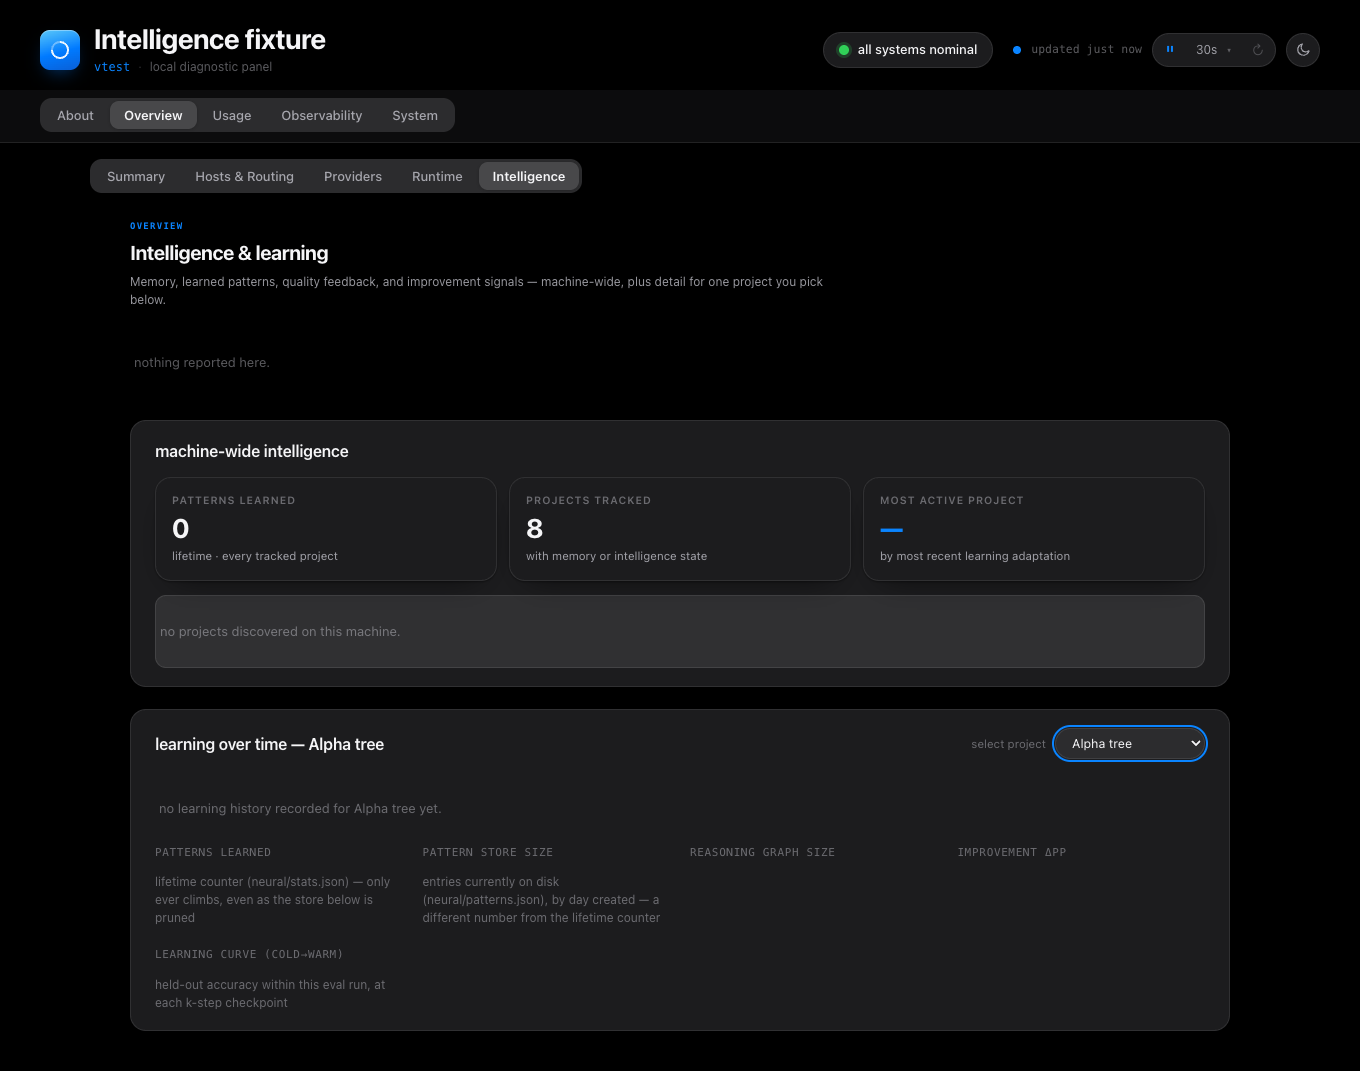
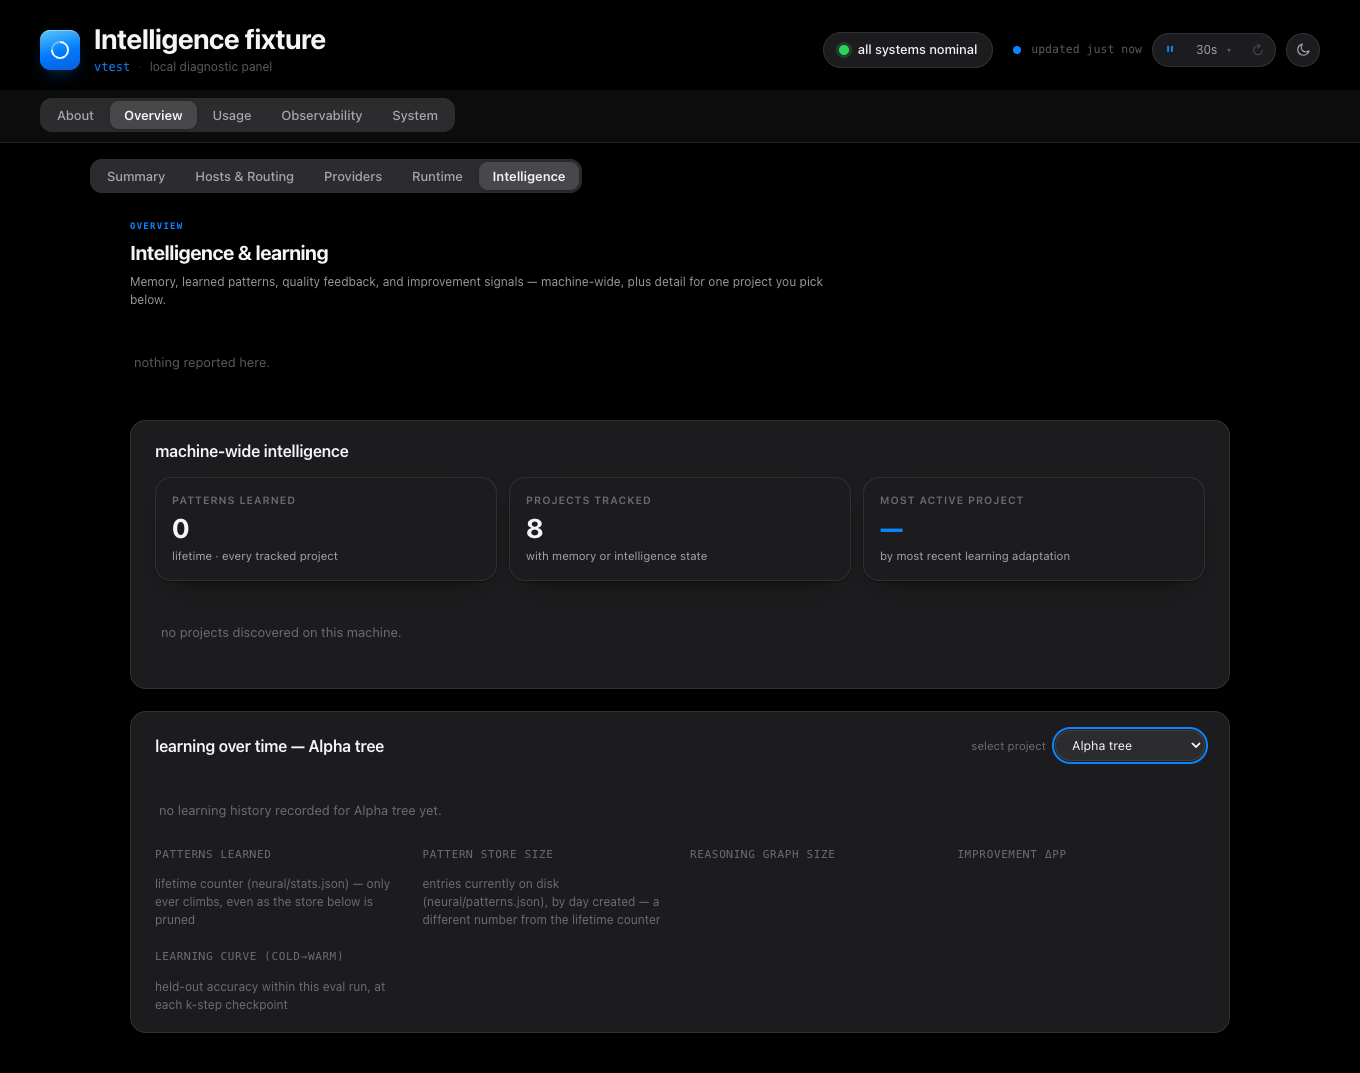
docs(dashboard): document grouped learning and context coverage

diff --git a/docs/evidence/dashboard-project-context/README.md b/docs/evidence/dashboard-project-context/README.md
@@ -12,12 +12,14 @@ code with fixture HTTP observations. They verify:
 - Existing totals, old payload fallback, empty states, and unknown attribution.
 - Maintenance folder/name alignment, shared Git badge, all language icons, and
   navigation through installations and back.
-- Alphabetized Intelligence optgroups, plain names, stable selection keys, and
-  empty-history navigation.
+- Alphabetized Intelligence optgroups and table subgroups, plain names, stable
+  selection keys, five-row scroll regions, and empty-history navigation.
 - Usage Score top-ten Git-project ranking, timeframe changes, plain names,
   excluded unclassified entries, and preserved overall totals.
 - Compact collapsed context configuration, bounded expanded model lists,
   cache/configuration semantics, and catalog fallback columns.
+- Historical context coverage distinguishes input-only, partial paired data,
+  missing measurements, and no sessions without presenting absent windows as zero.
 - Desktop, tablet, and phone overflow checks, keyboard controls, focus retention,
   native select semantics, accessible icon labels, and browser errors.
 
@@ -28,8 +30,10 @@ These are targeted accessibility checks, not a claim of a complete WCAG audit.
 | Surface | Desktop | Phone |
 | --- | --- | --- |
 | Context configuration | [Default](context-desktop.png), [model disclosure](context-models-desktop.png) | [390 px](context-390.png) |
+| Historical Context | [Desktop](coverage/context-coverage-1440.png) | [390 px](coverage/context-coverage-390.png) |
 | System Projects | [Desktop](system-projects-desktop.png) | [390 px](system-projects-390.png) |
 | Maintenance Projects | [Desktop](maintenance/project-cards-desktop.png) | [390 px](maintenance/project-cards-mobile.png) |
+| Intelligence table | [Desktop](intelligence/intelligence-table-1360.png) | [390 px](intelligence/intelligence-table-390.png), [scrolled](intelligence/intelligence-table-390-scrolled.png) |
 | Intelligence picker | [Desktop](intelligence/intelligence-picker-1360.png) | [390 px](intelligence/intelligence-picker-390.png) |
 | Usage project groups | [Desktop](usage/usage-project-groups-1440.png) | [390 px](usage/usage-project-groups-390.png) |
 
@@ -48,7 +52,7 @@ npm run build
 npm run test:ui
 ```
 
-The four focused browser suites are also included in `test:ui`. Ordinary runs
+The five focused browser suites are also included in `test:ui`. Ordinary runs
 write screenshots only to the ignored UI artifact directory, or to an explicit
 `AK_UI_ARTIFACTS` / `AK_DASHBOARD_EVIDENCE_DIR` destination. CI results and the exact
 reviewed source commit are linked from the pull request.

diff --git a/docs/adr/0050-dashboard-project-identity-and-context-reporting.md b/docs/adr/0050-dashboard-project-identity-and-context-reporting.md
@@ -144,6 +144,36 @@ performed for the picker. Values, selected key, initial recency choice, learning
 paths, and history remain unchanged. Names and UUID-like labels do not establish
 origin. Native select keyboard behavior and optgroup semantics are retained.
 
+## Machine-wide Intelligence table
+
+The table uses the picker's same four learning-scope categories, alphabetized
+within each. Metadata comes from the existing project entries, not a label join.
+Each subgroup retains all rows in a keyboard-scrollable region with five visible
+rows; the surrounding table area is bounded. The layout stacks on narrow screens.
+The hero totals and underlying learning population remain unchanged.
+
+## Historical context coverage
+
+Usage Context reports recorded session observations, separately from Runtime's
+cached model configuration. Claude transcript usage fields supply input/cache
+tokens but not a paired window. Claude's native statusline supplies a true pair,
+but the existing quota cache retains only one latest payload and is conditional
+on quota data; it cannot establish historical coverage for other sessions.
+Codex records with paired token-count fields establish pressure; cumulative-only
+or older records do not. OpenCode's sessions may simply fall outside the selected
+timeframe; its recorded message tokens do not establish the runtime window.
+
+The cards distinguish input-only records, partial paired coverage, no recorded
+measurements, and no sessions. Missing numeric evidence displays as an em dash,
+not zero. The count is labelled Sessions with pressure because it counts sessions
+with a pair, rather than individual telemetry samples. A meter appears only for
+a measured pressure value; otherwise the card states that pressure is unmeasured.
+
+Future Claude coverage could use bounded per-session statusline snapshots with
+session/model/time identity. OpenCode would require validated request/response
+correlation across retries and model switches. Neither is implemented here, and
+model catalogs are not substituted for historical runtime windows.
+
 ## Usage Score projects
 
 An additive `gitProjects` projection ranks discovered Git projects using exactly

diff --git a/docs/USAGE-SCORECARD-METRICS.md b/docs/USAGE-SCORECARD-METRICS.md
@@ -2155,13 +2155,13 @@ unbounded observation list. Codex reads the gross `last_token_usage.input_tokens
 not add its cached-input subset again. Claude and OpenCode sum their split fresh/cache fields but
 usually have no runtime window, so their coverage is commonly partial.
 
-The current cache schema is v18 because controlled prompt intent/topic facets also require parser
-output. A v17 cache is reparsed; the context evidence contract itself is unchanged.
+Cache schema v20 also retains Git-project eligibility evidence. Older cache records are reparsed;
+the context evidence contract itself is unchanged.
 
 The Context view contains:
 
 - the canonical startup/dynamic/reserve policy bands;
-- counted coverage, including paired samples and sessions missing a window;
+- counted coverage, including sessions with paired measurements and sessions missing a window;
 - one host card each for Claude, Codex and OpenCode;
 - p90 peak pressure/input and median observed window where supported; and
 - at most 20 attention rows carrying a deterministic opaque session reference plus bounded project
